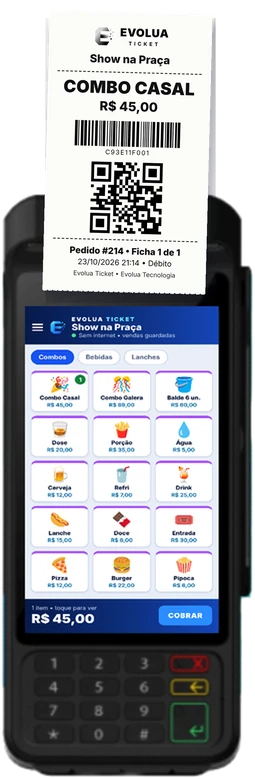
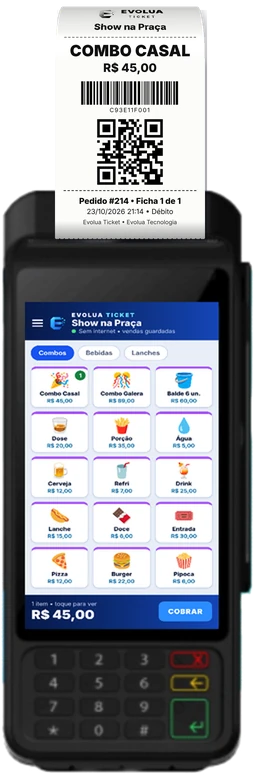
Fichas saindo da impressora e quadro do celular com impressora
As fichas agora saem da boca da impressora de cada maquininha, com a
ponta curvada, e os logos das máquinas foram apagados com retoque. O
quadro do celular ganha um celular e uma impressora térmica no arranjo
do esboço enviado.

Claude-Session: https://claude.ai/code/session_01GbLZ4zt1ntkEGnsbhGEL5K

diff --git a/evolua-ticket.html b/evolua-ticket.html
@@ -86,9 +86,8 @@
       </article>
       <article class="compat-card reveal">
         <div class="compat-head"><div><h3>Celular Android</h3><small>Com impressora térmica Bluetooth</small></div><span class="pill blue">Compatível</span></div>
-        <div class="compat-devices" style="gap:6px">
-          <figure><div class="dv phone" aria-hidden="true"><div class="dv-screen"><div class="app"><div class="app-top"><i class="app-menu"></i><img src="assets/img/evolua-mark.svg" alt=""><div><b>EVOLUA <span>TICKET</span></b><strong>Quermesse São José</strong><small><i></i>Online • Barraca 2</small></div></div><div class="app-chips"><span class="on">Comidas</span><span>Bebidas</span></div><div class="app-grid"><div style="--c:#f59e0b"><em>1</em><b>Pastel</b><small>R$ 10,00</small></div><div style="--c:#f59e0b"><b>Espetinho</b><small>R$ 15,00</small></div><div style="--c:#f59e0b"><em>1</em><b>Cachorro-quente</b><small>R$ 9,00</small></div><div style="--c:#f59e0b"><b>Pipoca</b><small>R$ 6,00</small></div><div style="--c:#f59e0b"><b>Milho</b><small>R$ 7,00</small></div><div style="--c:#f59e0b"><b>Canjica</b><small>R$ 8,00</small></div></div><div class="app-bottom"><div><small>2 itens • toque para ver</small><b>R$ 19,00</b></div><span>COBRAR</span></div></div></div></div><figcaption><b>Android</b>+ impressora</figcaption></figure>
-          <figure><div class="bt-printer" aria-hidden="true" style="font-size:7.6px"><div class="paper"><b>EVOLU<i>A</i> TICKET</b><strong>1x PASTEL</strong><small>Barraca 2</small><hr><div class="code"></div></div><i></i></div><figcaption><b>Bluetooth</b>ESC/POS</figcaption></figure>
+        <div class="compat-devices real">
+          <figure class="phone-set"><img src="assets/img/maquininhas/celular-impressora.webp" alt="Evolua Ticket no celular Android com a ficha saindo da impressora Bluetooth" loading="lazy"><figcaption><b>Android</b>+ impressora Bluetooth</figcaption></figure>
         </div>
       </article>
       <article class="compat-card full reveal">

diff --git a/index.html b/index.html
@@ -82,9 +82,8 @@
       </article>
       <article class="compat-card reveal">
         <div class="compat-head"><div><h3>Celular Android</h3><small>Com impressora térmica Bluetooth</small></div><span class="pill blue">Compatível</span></div>
-        <div class="compat-devices" style="gap:6px">
-          <figure><div class="dv phone" aria-hidden="true"><div class="dv-screen"><div class="app"><div class="app-top"><i class="app-menu"></i><img src="assets/img/evolua-mark.svg" alt=""><div><b>EVOLUA <span>TICKET</span></b><strong>Quermesse São José</strong><small><i></i>Online • Barraca 2</small></div></div><div class="app-chips"><span class="on">Comidas</span><span>Bebidas</span></div><div class="app-grid"><div style="--c:#f59e0b"><em>1</em><b>Pastel</b><small>R$ 10,00</small></div><div style="--c:#f59e0b"><b>Espetinho</b><small>R$ 15,00</small></div><div style="--c:#f59e0b"><em>1</em><b>Cachorro-quente</b><small>R$ 9,00</small></div><div style="--c:#f59e0b"><b>Pipoca</b><small>R$ 6,00</small></div><div style="--c:#f59e0b"><b>Milho</b><small>R$ 7,00</small></div><div style="--c:#f59e0b"><b>Canjica</b><small>R$ 8,00</small></div></div><div class="app-bottom"><div><small>2 itens • toque para ver</small><b>R$ 19,00</b></div><span>COBRAR</span></div></div></div></div><figcaption><b>Android</b>+ impressora</figcaption></figure>
-          <figure><div class="bt-printer" aria-hidden="true" style="font-size:7.6px"><div class="paper"><b>EVOLU<i>A</i> TICKET</b><strong>1x PASTEL</strong><small>Barraca 2</small><hr><div class="code"></div></div><i></i></div><figcaption><b>Bluetooth</b>ESC/POS</figcaption></figure>
+        <div class="compat-devices real">
+          <figure class="phone-set"><img src="assets/img/maquininhas/celular-impressora.webp" alt="Evolua Ticket no celular Android com a ficha saindo da impressora Bluetooth" loading="lazy"><figcaption><b>Android</b>+ impressora Bluetooth</figcaption></figure>
         </div>
       </article>
       <article class="compat-card full reveal">

diff --git a/assets/css/style.css b/assets/css/style.css
@@ -419,3 +419,4 @@ a.contact-item:hover{border-color:var(--blue)}
 .compat-devices.real figure{flex:1;max-width:210px}
 .compat-devices.real img{width:100%;height:auto;filter:drop-shadow(0 18px 22px rgba(15,32,72,.22))}
 .compat-card.full{grid-column:1/-1}
+.compat-devices.real figure.phone-set{max-width:340px}

diff --git a/ALTERACOES.md b/ALTERACOES.md
@@ -9,4 +9,5 @@ Tudo aqui fica na branch `proximas-alteracoes` e só vai para o site quando for 
 - [x] Texto da nova abertura reescrito em tom mais profissional ("Software de vendas integrado às maquininhas de cartão").
 - [x] Saiu da página inicial a abertura antiga ("A venda de fichas do seu evento direto na maquininha"). A imagem das maquininhas desenhadas dela ficou guardada em `assets/img/guardadas/maquininhas-desenhadas.png` (o mesmo desenho continua na abertura da página do Evolua Ticket).
 - [x] Seção "Maquininhas compatíveis": título agora fala com o cliente final ("O Evolua Ticket roda na sua maquininha"). As máquinas desenhadas da PagBank deram lugar às máquinas reais (Moderninha Smart 2, Stone e Cielo LIO) com uma ficha do Evolua Ticket impressa (com código de barras e QR Code, igual à do app) saindo da impressora e cobrindo a marca de cima. Sem o carimbo "Em homologação" nessas imagens; o aviso fica só na etiqueta do quadro. Saiu o quadro desenhado de "POS Android" (virou uma frase no quadro de outras credenciadoras).
-- [ ] Celular e impressora Bluetooth reais: aguardando fotos.
+- [x] Fichas refeitas: agora saem da boca da impressora de cada maquininha, subindo e com a ponta curvada para trás, e não deitadas por cima. Logos apagados com retoque (Cielo e LIO em cima, "stone" embaixo da tela); o da Moderninha fica atrás da ficha.
+- [x] Quadro "Celular Android": celular moderno inclinado na frente com o Evolua Ticket na tela e impressora térmica portátil atrás com a ficha (código de barras e QR Code) saindo, no arranjo do esboço enviado. São ilustrações nossas (não foto); dá para trocar por foto real depois.
